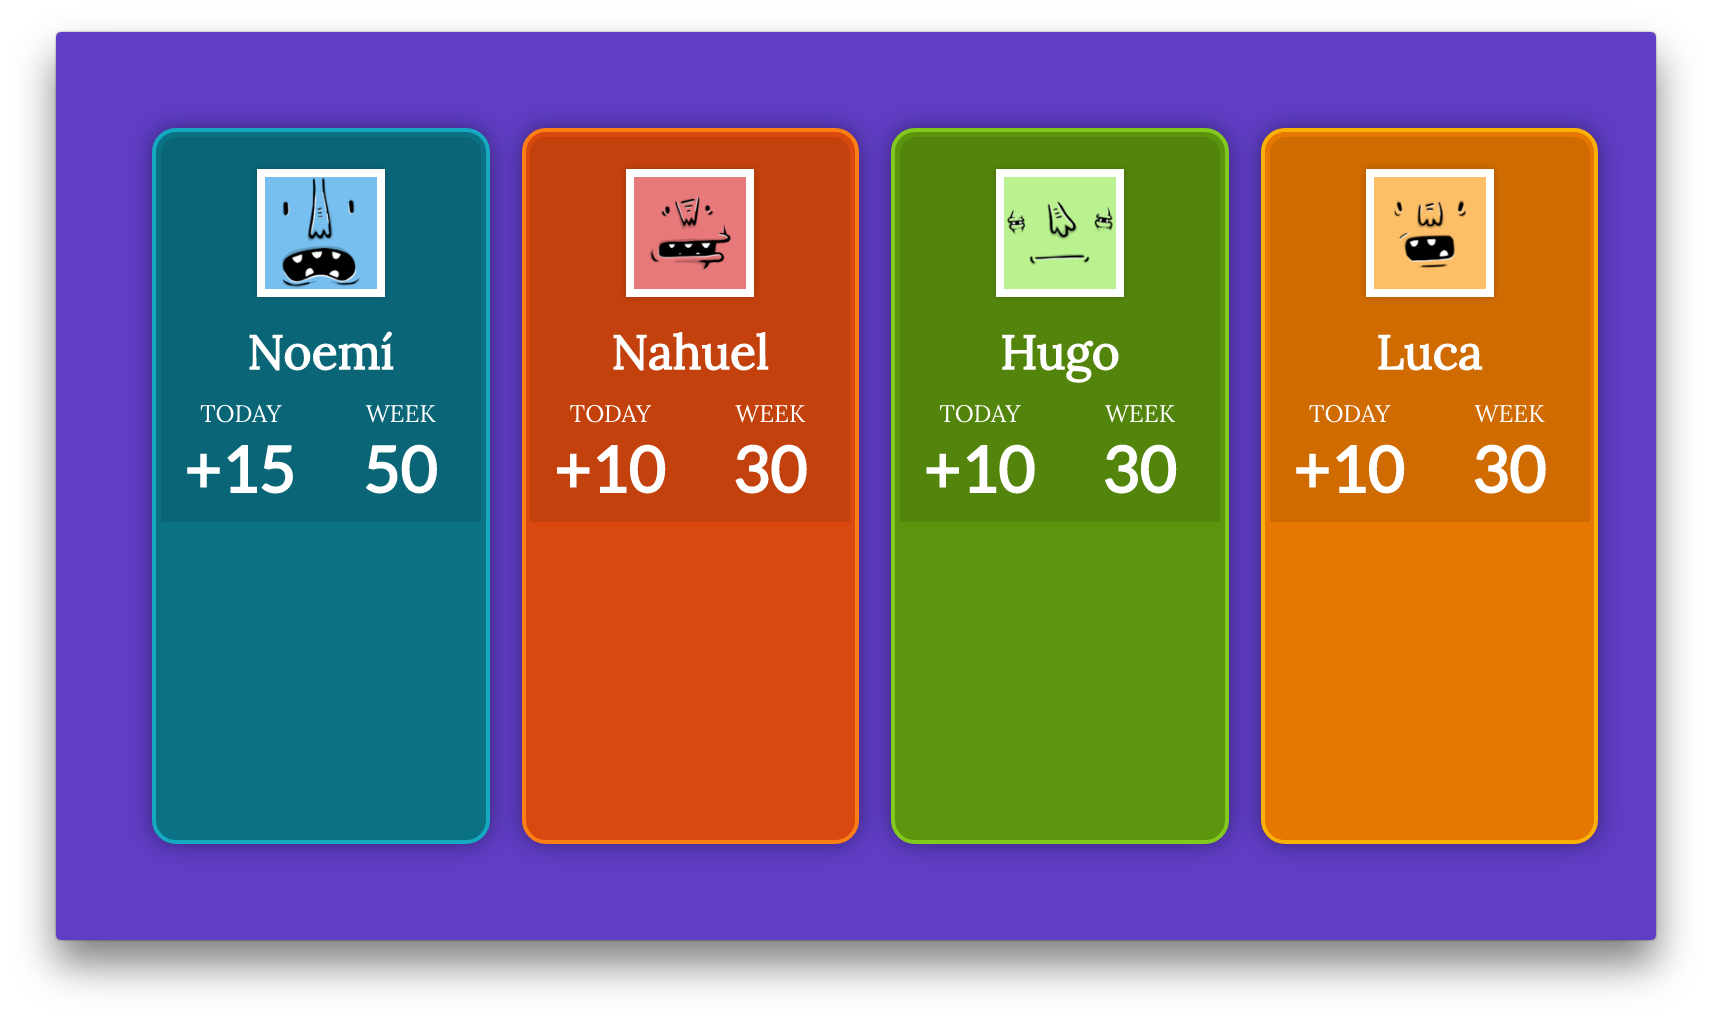
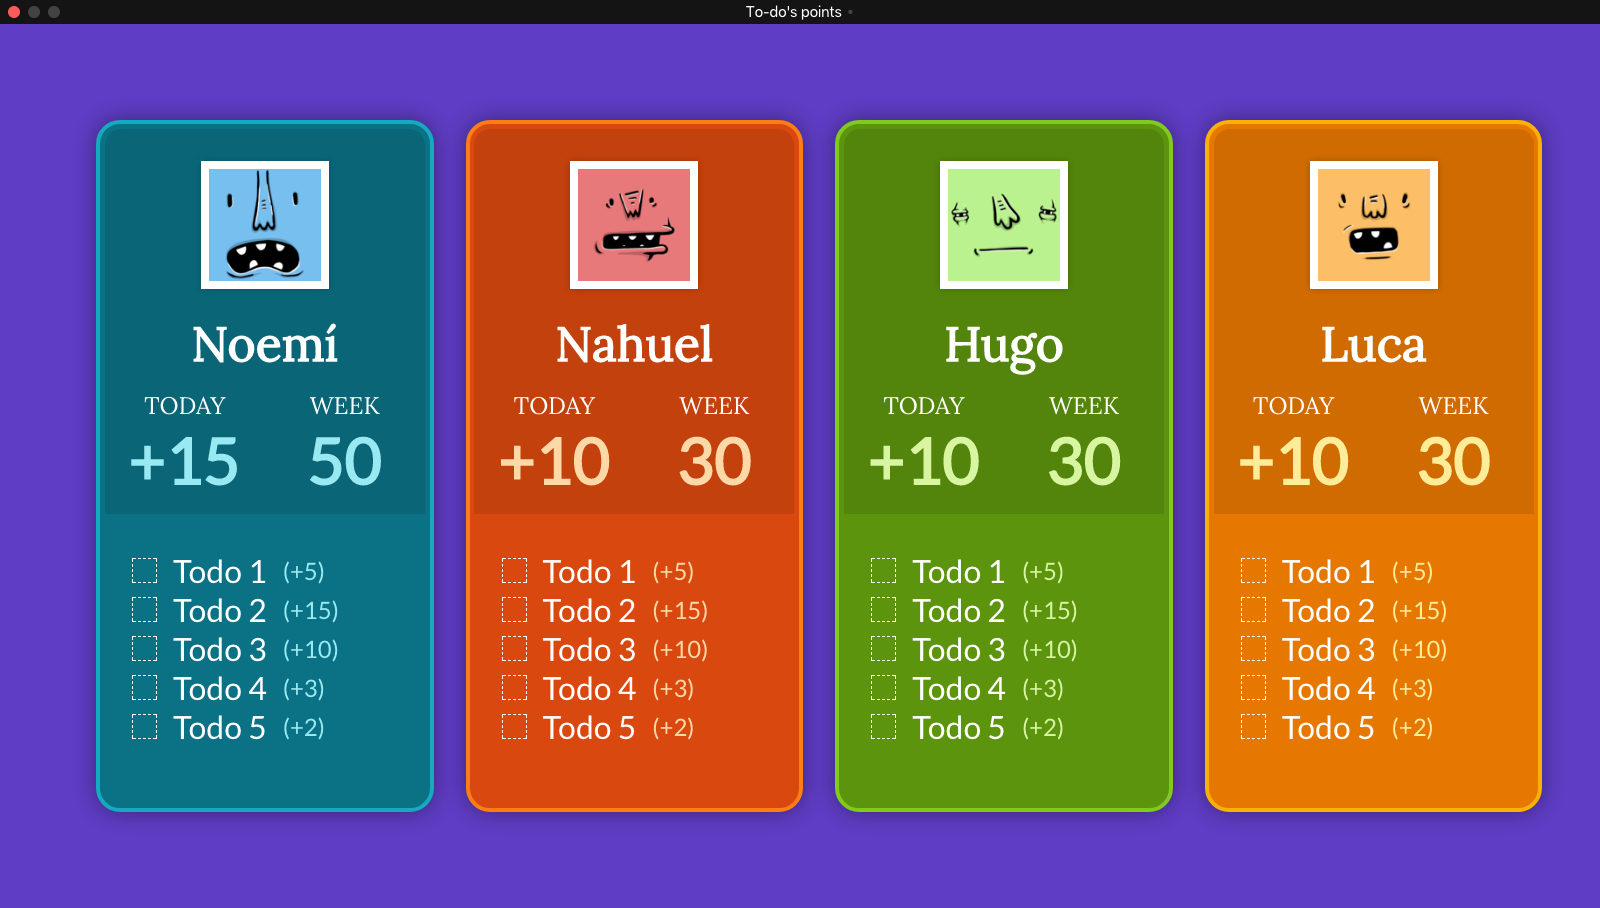
feat: todos, screenshot

diff --git a/src/components/todos/Todos.tsx b/src/components/todos/Todos.tsx
@@ -1,0 +1,106 @@
+import * as React from "react";
+import styled from "styled-components";
+import { ITodo } from "../../core/ITodo";
+
+interface IProps {
+  todos: ITodo[];
+  theme: string[];
+}
+
+interface ITodoProps {
+  todo: ITodo;
+  theme: string[];
+}
+
+interface ITodoState {
+  done: boolean;
+}
+
+const check = (isChecked: boolean) => () => ({ done: isChecked });
+
+class Todo extends React.Component<ITodoProps, ITodoState> {
+  constructor(props: ITodoProps) {
+    super(props);
+    this.state = {
+      done: props.todo.done
+    };
+  }
+
+  public render() {
+    const { todo, theme } = this.props;
+    const { done } = this.state;
+    return (
+      <TodoWrapper>
+        <Checkbox onClick={() => this.handleInputChange(!done)} done={done} />
+        <TodoTitle done={done}>{todo.title}</TodoTitle>
+        <TodoPoints theme={theme}>
+          (+
+          {todo.points})
+        </TodoPoints>
+      </TodoWrapper>
+    );
+  }
+
+  private handleInputChange = (done: boolean) => {
+    this.setState(check(done));
+  };
+}
+
+const Todos = ({ todos, theme }: IProps) => (
+  <TodosWrapper>
+    {todos.map((t, idx) => (
+      <Todo key={idx} todo={t} theme={theme} />
+    ))}
+  </TodosWrapper>
+);
+
+const Checkbox = styled.span<{ done: boolean }>`
+  position: relative;
+  height: 25px;
+  width: 25px;
+  border: 1px dashed white;
+  background-color: transparent;
+  margin-right: 1rem;
+
+  &:hover {
+    background-color: rgba(255, 255, 255, 0.1);
+  }
+
+  &:after {
+    content: "";
+    position: absolute;
+    display: ${props => (props.done ? "block" : "none")};
+    left: 8px;
+    top: 4px;
+    width: 5px;
+    height: 10px;
+    border: solid white;
+    border-width: 0 3px 3px 0;
+    -webkit-transform: rotate(45deg);
+    -ms-transform: rotate(45deg);
+    transform: rotate(45deg);
+  }
+`;
+
+const TodosWrapper = styled.div`
+  margin: 2rem;
+`;
+
+const TodoWrapper = styled.div`
+  display: flex;
+  align-items: center;
+`;
+
+const TodoTitle = styled.div<{ done: boolean }>`
+  text-decoration: ${props => (props.done ? "line-through" : "none")};
+  font-size: 2rem;
+  color: white;
+`;
+
+const TodoPoints = styled.div<{ theme: string[] }>`
+  font-size: 1.5rem;
+  color: ${props => props.theme[2]};
+  margin-left: 1rem;
+`;
+
+export { Todos };

diff --git a/src/App.tsx b/src/App.tsx
@@ -18,7 +18,14 @@ const users: IUserObj[] = [
       points: {
         today: 15,
         week: 50
-      }
+      },
+      todos: [
+        { date: new Date(), done: false, points: 5, title: "Todo 1" },
+        { date: new Date(), done: false, points: 15, title: "Todo 2" },
+        { date: new Date(), done: false, points: 10, title: "Todo 3" },
+        { date: new Date(), done: false, points: 3, title: "Todo 4" },
+        { date: new Date(), done: false, points: 2, title: "Todo 5" }
+      ]
     }
   },
   {
@@ -29,7 +36,14 @@ const users: IUserObj[] = [
       points: {
         today: 10,
         week: 30
-      }
+      },
+      todos: [
+        { date: new Date(), done: false, points: 5, title: "Todo 1" },
+        { date: new Date(), done: false, points: 15, title: "Todo 2" },
+        { date: new Date(), done: false, points: 10, title: "Todo 3" },
+        { date: new Date(), done: false, points: 3, title: "Todo 4" },
+        { date: new Date(), done: false, points: 2, title: "Todo 5" }
+      ]
     }
   },
   {
@@ -40,7 +54,14 @@ const users: IUserObj[] = [
       points: {
         today: 10,
         week: 30
-      }
+      },
+      todos: [
+        { date: new Date(), done: false, points: 5, title: "Todo 1" },
+        { date: new Date(), done: false, points: 15, title: "Todo 2" },
+        { date: new Date(), done: false, points: 10, title: "Todo 3" },
+        { date: new Date(), done: false, points: 3, title: "Todo 4" },
+        { date: new Date(), done: false, points: 2, title: "Todo 5" }
+      ]
     }
   },
   {
@@ -51,7 +72,14 @@ const users: IUserObj[] = [
       points: {
         today: 10,
         week: 30
-      }
+      },
+      todos: [
+        { date: new Date(), done: false, points: 5, title: "Todo 1" },
+        { date: new Date(), done: false, points: 15, title: "Todo 2" },
+        { date: new Date(), done: false, points: 10, title: "Todo 3" },
+        { date: new Date(), done: false, points: 3, title: "Todo 4" },
+        { date: new Date(), done: false, points: 2, title: "Todo 5" }
+      ]
     }
   }
 ];

diff --git a/src/components/UserProfile.tsx b/src/components/UserProfile.tsx
@@ -7,15 +7,21 @@ import { UserName } from "./user/UserName";
 
 interface IProps {
   user: IUser;
+  theme: string[];
 }
 
-const UserProfile = ({ user }: IProps) => (
+const UserProfile = ({ user, theme }: IProps) => (
   <Wrapper>
     <Avatar src={user.avatar} />
     <UserName name={user.name} />
     <WrapperPoints>
-      <Points when="today" prefix="+" points={user.points.today} />
-      <Points when="week" prefix="" points={user.points.week} />
+      <Points
+        theme={theme}
+        when="today"
+        prefix="+"
+        points={user.points.today}
+      />
+      <Points theme={theme} when="week" prefix="" points={user.points.week} />
     </WrapperPoints>
   </Wrapper>
 );

diff --git a/src/components/points/Points.tsx b/src/components/points/Points.tsx
@@ -3,14 +3,15 @@ import styled from "styled-components";
 
 interface IProps {
   points: number;
+  theme: string[];
   prefix: string;
   when: string;
 }
 
-const Points = ({ when, prefix, points }: IProps) => (
+const Points = ({ when, prefix, theme, points }: IProps) => (
   <Wrapper>
     <When>{when}</When>
-    <Numbers>
+    <Numbers theme={theme}>
       {prefix}
       {points}
     </Numbers>
@@ -33,9 +34,10 @@ const When = styled.div`
   font-family: Lora;
 `;
 
-const Numbers = styled.div`
+const Numbers = styled.div<{ theme: string[] }>`
   font-size: 4rem;
   font-weight: 600;
+  color: ${props => props.theme[2]};
 `;
 
 export { Points };

diff --git a/src/components/Card.tsx b/src/components/Card.tsx
@@ -1,6 +1,7 @@
 import * as React from "react";
 import styled from "styled-components";
 import { IUser } from "../core/IUser";
+import { Todos } from "./todos/Todos";
 import { UserProfile } from "./UserProfile";
 
 interface IProps {
@@ -10,7 +11,8 @@ interface IProps {
 
 const Card = ({ theme, user }: IProps) => (
   <StyledCard theme={theme}>
-    <UserProfile user={user} />
+    <UserProfile theme={theme} user={user} />
+    <Todos theme={theme} todos={user.todos} />
   </StyledCard>
 );
 

diff --git a/src/core/IUser.ts b/src/core/IUser.ts
@@ -1,3 +1,5 @@
+import { ITodo } from "./ITodo";
+
 interface IUser {
   name: string;
   avatar: string;
@@ -5,6 +7,7 @@ interface IUser {
     today: number;
     week: number;
   };
+  todos: ITodo[];
 }
 
 export { IUser };

diff --git a/src/core/ITodo.ts b/src/core/ITodo.ts
@@ -1,0 +1,8 @@
+interface ITodo {
+  date: Date;
+  title: string;
+  done: boolean;
+  points: number;
+}
+
+export { ITodo };
